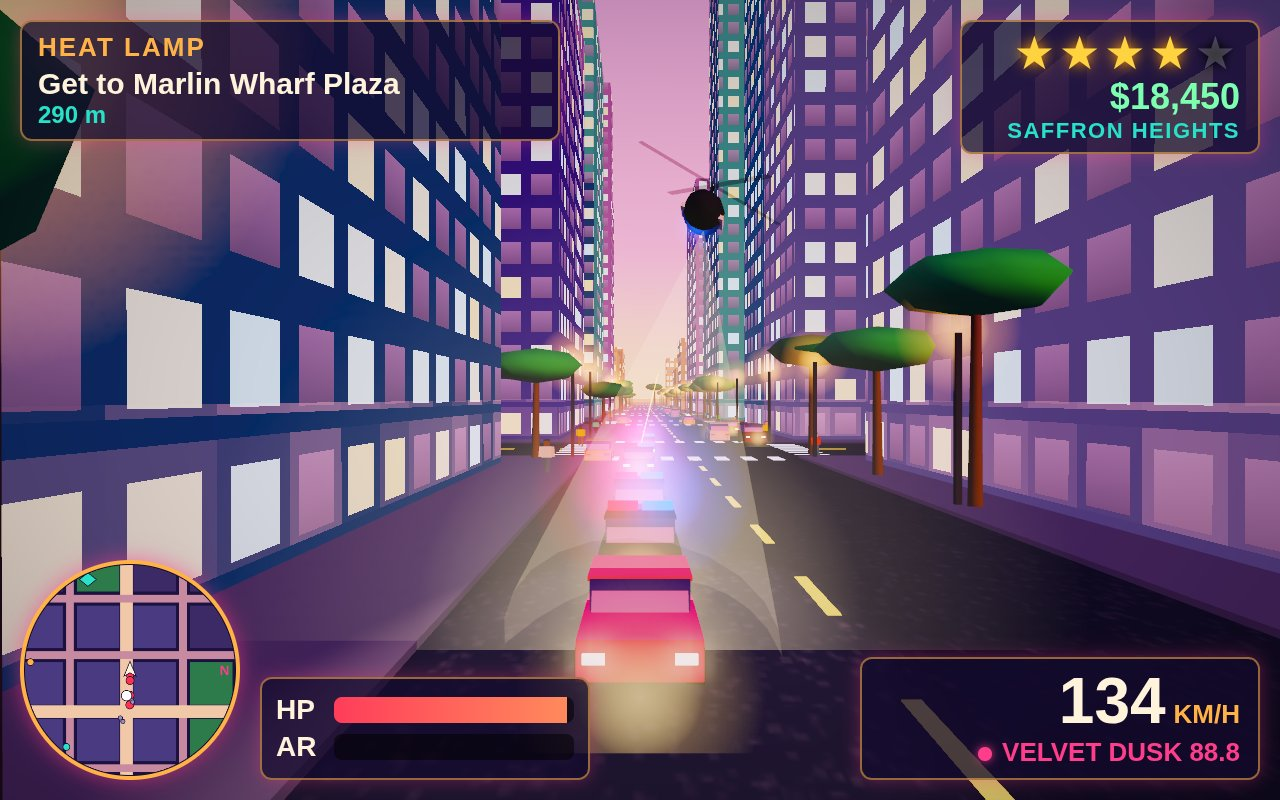
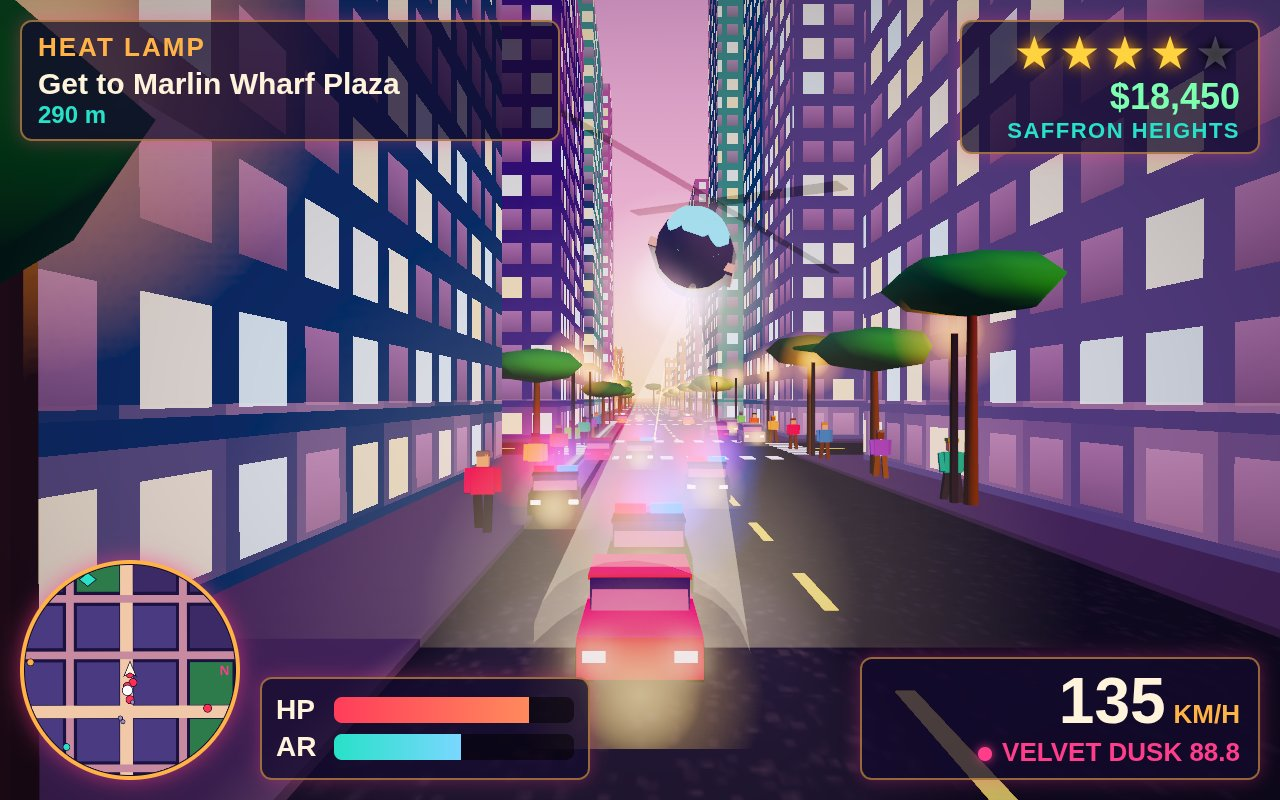
Polish: busier cover chase, brighter helicopter, title slot info, police-driver null fix

diff --git a/game/src/screenshot/shot-director.js b/game/src/screenshot/shot-director.js
@@ -39,11 +39,14 @@ async function sceneCover() {
   startMission(4);
   setWanted(4);
   const cops = [];
-  for (const dx of [8, 15, 25, 36]) cops.push(spawnPatrolCar('x', 3, x0 + dx, -1));
-  cops.forEach((c, i) => { c.speed = 31; c.vx = -31; c.z = road + (i % 2 ? -1.8 : -6); });
+  p.armor = 55; p.hp = 82;
+  for (const dx of [7, 11, 18, 30]) cops.push(spawnPatrolCar('x', 3, x0 + dx, -1));
+  const lanesZ = [lane + 0.2, road - 7.4, road - 0.9, road - 4];
+  cops.forEach((c, i) => { c.speed = 31; c.vx = -31; c.z = lanesZ[i]; });
   const heli = spawnHelicopter(x0 + 60, road - 10);
   G.autopilot = (inp) => { inp.throttle = 0.8; inp.steer = 0; };
   advance(2.6, () => {
+    cops.forEach((c, i) => { c.z += (lanesZ[i] - c.z) * 0.25; c.vz *= 0.5; });
     p.inCar = car;
     heli.angle = Math.PI / 2 + 0.1; heli.x = car.x + 30; heli.z = car.z + 4; heli.y = 15;
   });
@@ -53,11 +56,16 @@ async function sceneCover() {
   [[cx + 22, -1, 'brisa'], [cx + 58, 1, 'okapi'], [cx + 92, -1, 'halcyon'], [cx + 40, 1, 'bulwark']].forEach(([x, side, m]) => {
     spawnVehicle(m, x, road + side * 6.9, side > 0 ? -Math.PI / 2 : Math.PI / 2, { parked: true });
   });
-  for (let i = 0; i < 10; i++) {
-    const a = spawnPedestrian(cx + 14 + i * 11, road + (i % 2 ? 9.5 : -9.5), { role: 'civilian', state: 'walk' });
-    a.axis = 'x'; a.lane = road + (i % 2 ? 9.5 : -9.5); a.dir = i % 3 ? 1 : -1;
+  const bright = [0xff3d8b, 0x27e1c8, 0xffd23a, 0x9b6bff, 0xff7a30, 0x4aa3ff, 0x7aff7a];
+  for (let i = 0; i < 14; i++) {
+    const side = i % 2 ? 9.2 : -9.2;
+    const a = spawnPedestrian(cx - 4 + i * 5, road + side, { role: 'civilian', state: 'walk', shirt: bright[i % bright.length] });
+    a.axis = 'x'; a.lane = road + side; a.dir = i % 3 ? 1 : -1;
+    a.mesh.scale.setScalar(1.4);
   }
-  advance(0.4, () => { p.inCar = car; heli.angle = Math.PI / 2 + 0.1; heli.x = car.x + 30; heli.z = car.z + 4; heli.y = 15; });
+  heli.mesh.scale.setScalar(1.7);
+  const holdCops = () => cops.forEach((c, i) => { c.z += (lanesZ[i] - c.z) * 0.25; c.vz *= 0.5; });
+  advance(0.4, () => { holdCops(); p.inCar = car;heli.angle = Math.PI / 2 + 0.1; heli.x = car.x + 24; heli.z = car.z + 3; heli.y = 11; });
   document.getElementById('toast').classList.remove('show');
 }
 

diff --git a/game/src/police/helicopter.js b/game/src/police/helicopter.js
@@ -12,7 +12,13 @@ let heli = null, spot = null, beam = null, pool = null;
 
 function buildHeliMesh() {
   const g = new THREE.Group();
-  const hull = new THREE.MeshLambertMaterial({ color: 0x1c1a2e });
+  const hull = new THREE.MeshLambertMaterial({ color: 0x3a3c6a, emissive: 0x151630 });
+  const canopy = new THREE.Mesh(new THREE.SphereGeometry(1, 10, 8), new THREE.MeshBasicMaterial({ color: 0x8fe8ff }));
+  canopy.scale.set(0.95, 0.7, 1.1);
+  canopy.position.set(0, 0.35, 1.5);
+  const lamp = makeGlowSprite(0xfff4d0, 6, 1);
+  lamp.position.set(0, -1.2, 0.8);
+  g.add(canopy, lamp);
   const white = new THREE.MeshLambertMaterial({ color: 0xf4f4ff });
   const body = new THREE.Mesh(new THREE.SphereGeometry(1, 10, 8), hull);
   body.scale.set(1.3, 1.2, 2.6);
@@ -55,7 +61,7 @@ export function installHelicopter(scene) {
   const coneGeo = new THREE.ConeGeometry(1, 1, 24, 1, true);
   coneGeo.translate(0, -0.5, 0);
   coneGeo.rotateX(-Math.PI / 2); // apex at origin, opening toward +z
-  beam = new THREE.Mesh(coneGeo, new THREE.MeshBasicMaterial({ color: 0xfff0c8, transparent: true, opacity: 0.05, depthWrite: false, blending: THREE.AdditiveBlending, side: THREE.DoubleSide, fog: false }));
+  beam = new THREE.Mesh(coneGeo, new THREE.MeshBasicMaterial({ color: 0xfff0c8, transparent: true, opacity: 0.11, depthWrite: false, blending: THREE.AdditiveBlending, side: THREE.DoubleSide, fog: false }));
   beam.visible = false;
   beam.frustumCulled = false;
   scene.add(beam);

diff --git a/game/src/ui/title-screen.js b/game/src/ui/title-screen.js
@@ -37,7 +37,7 @@ export function titleCamera(t, camera) {
   // hover east of downtown and drift in an arc, looking west into the setting sun over the ocean
   const a = Math.PI / 2 + Math.sin(t * 0.07) * 0.55;
   const cx = SIZE * 0.5, cz = SIZE * 0.5, r = 300;
-  pos.set(cx + Math.sin(a) * r, 118 + Math.sin(t * 0.13) * 8, cz + Math.cos(a) * r);
+  pos.set(cx + Math.sin(a) * r, 80 + Math.sin(t * 0.13) * 8, cz + Math.cos(a) * r);
   look.set(cx - 120, 20, cz + 40);
   camera.position.copy(pos);
   camera.lookAt(look);

diff --git a/game/src/save/save-slots.js b/game/src/save/save-slots.js
@@ -51,7 +51,7 @@ export function describeSlot(n) {
   if (!d) return `SLOT ${n} — empty`;
   const done = d.mission.completed.length;
   const next = MISSIONS[d.mission.index];
-  return `SLOT ${n} · ${fmtMoney(d.cash)} · ${done}/${MISSIONS.length} missions${next ? '' : ' ✔'}`;
+  return `SLOT ${n} - Day ${done + 1} - ${fmtMoney(d.cash)}${next ? '' : ' ✔'}`;
 }
 
 export function hasAnySave() {

diff --git a/game/index.html b/game/index.html
@@ -61,7 +61,7 @@
     <div id="title-menu">
       <button id="btn-continue">CONTINUE</button>
       <button id="btn-new">NEW GAME</button>
-      <button id="btn-slots">SAVE SLOTS</button>
+      <button id="btn-slots">LOAD SLOT</button>
     </div>
     <div id="slot-list" class="hidden"></div>
     <div id="title-tip">WASD move &middot; mouse aim &middot; E enter car &middot; Q radio</div>

diff --git a/game/src/screenshot/shot-scenes.js b/game/src/screenshot/shot-scenes.js
@@ -79,8 +79,9 @@ async function sceneStory() {
 async function sceneTitle() {
   baseProgress();
   const p = G.player;
-  saveToSlot(1);
   G.cash = 3120; G.mission.completed = ['m1']; G.mission.index = 1;
+  saveToSlot(1);
+  G.cash = 18450; G.mission.completed = ['m1', 'm2', 'm3']; G.mission.index = 3;
   saveToSlot(2);
   placePlayer(270, 200, 0);
   p.mesh.visible = false;

diff --git a/game/src/police/police-driver.js b/game/src/police/police-driver.js
@@ -44,6 +44,7 @@ export function drivePolice(v, dt) {
     driveTraffic(v, dt);
     return;
   }
+  if (!v.aiState.chase) startPursuit(v);
   const st = v.aiState;
   v.siren = true;
   const t = targetOf(p);
